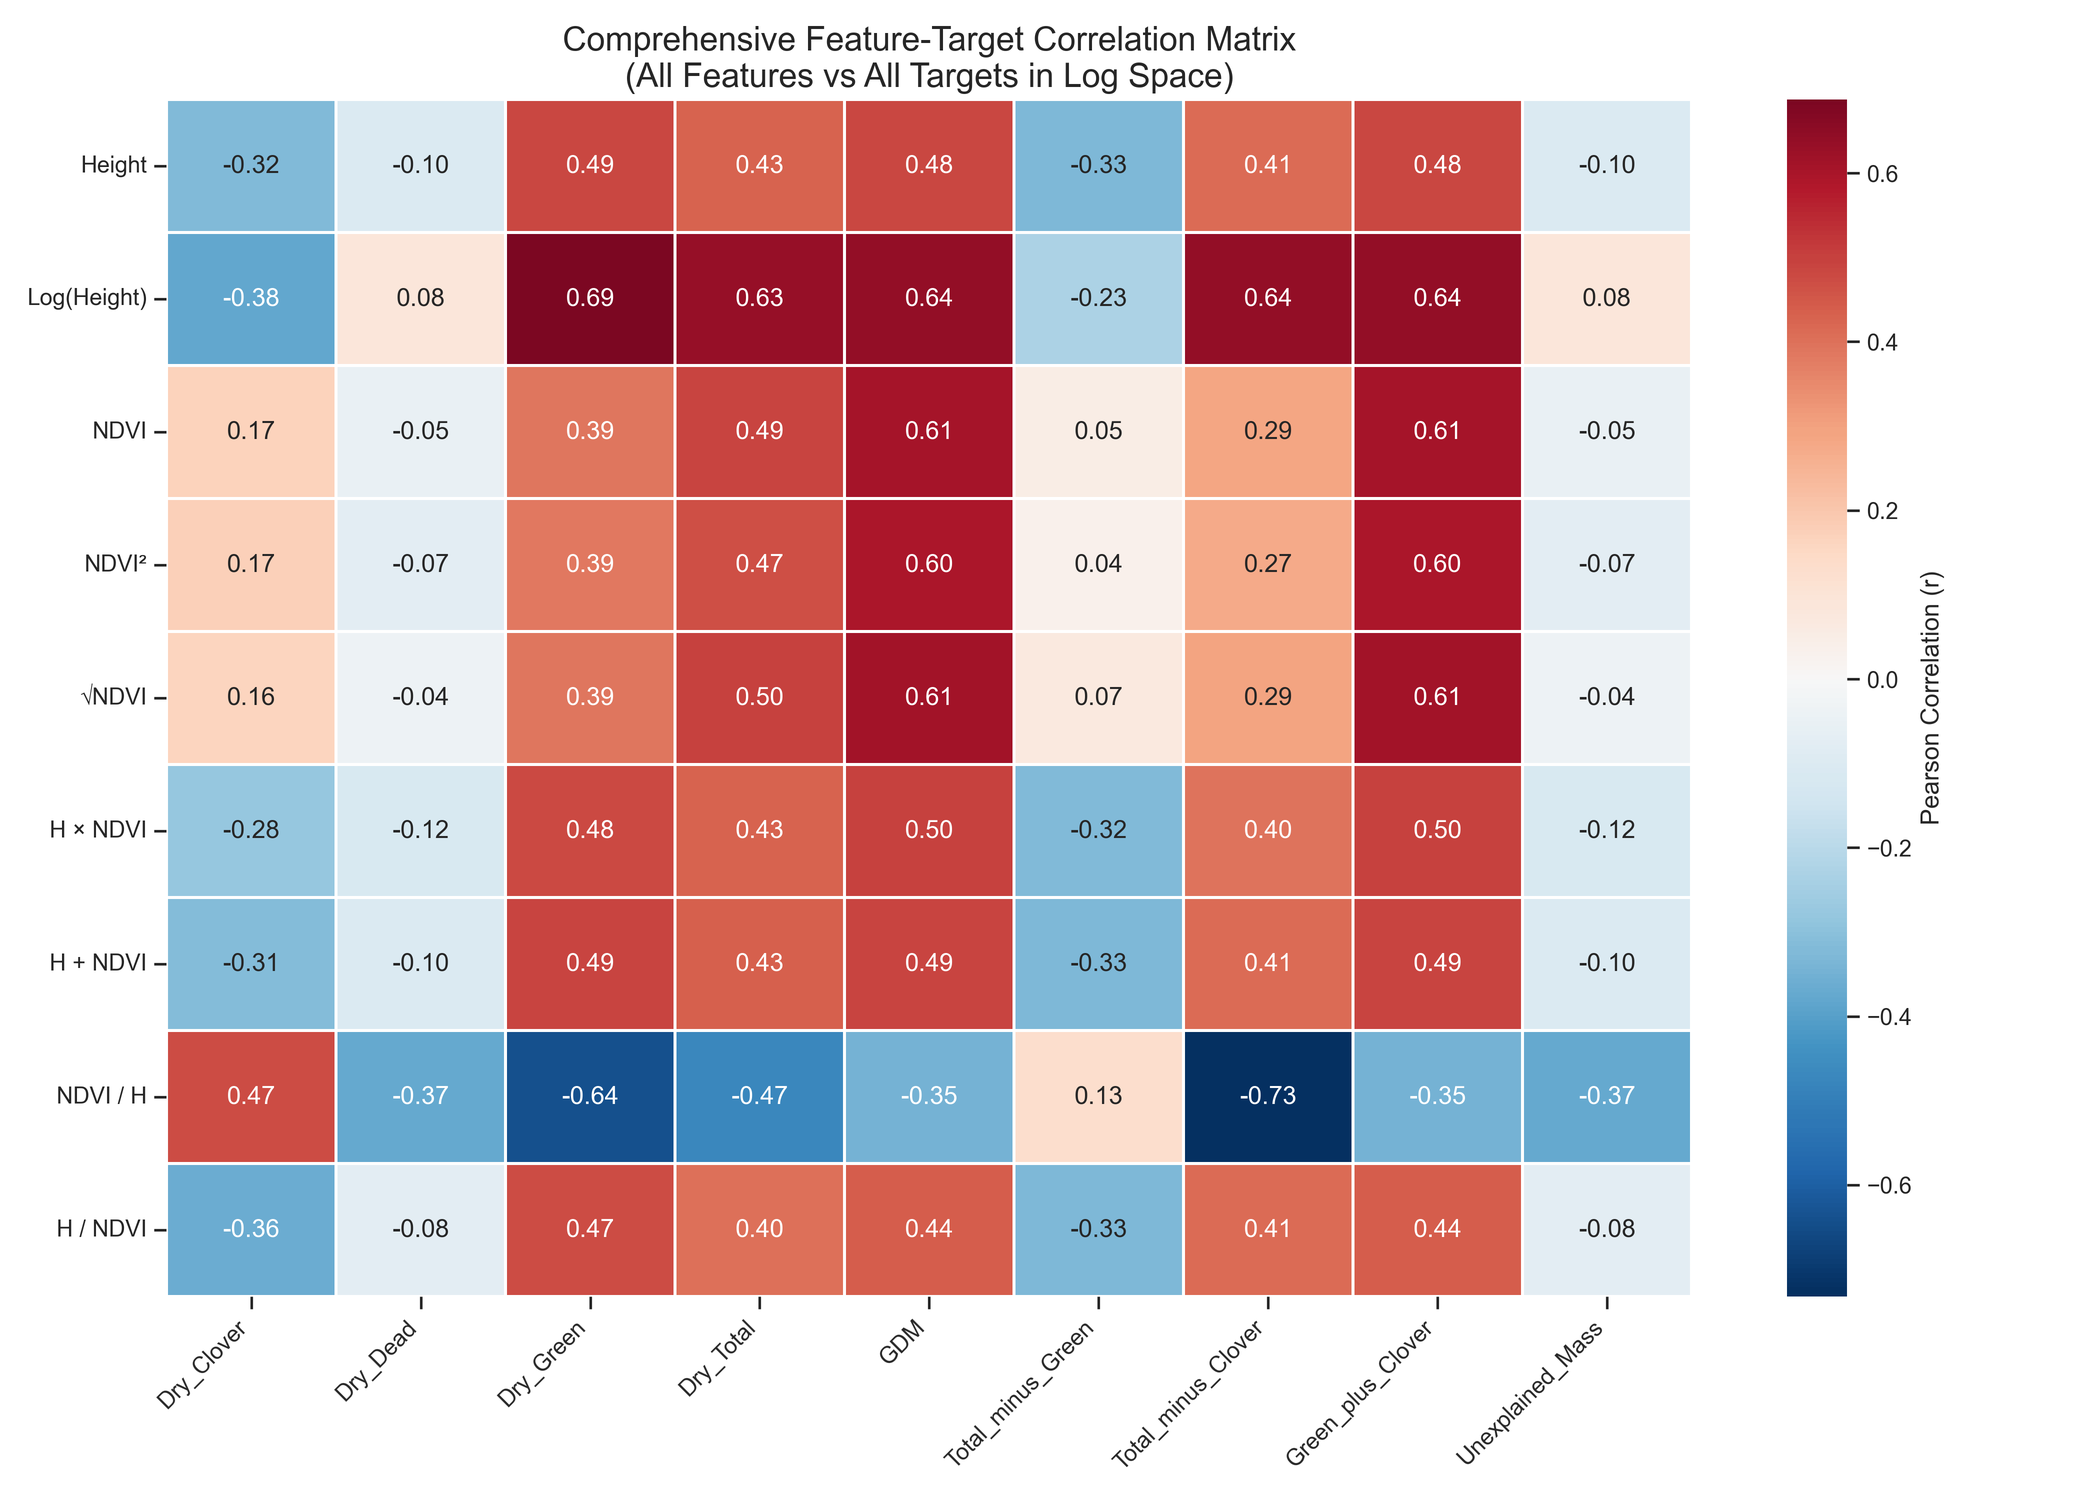
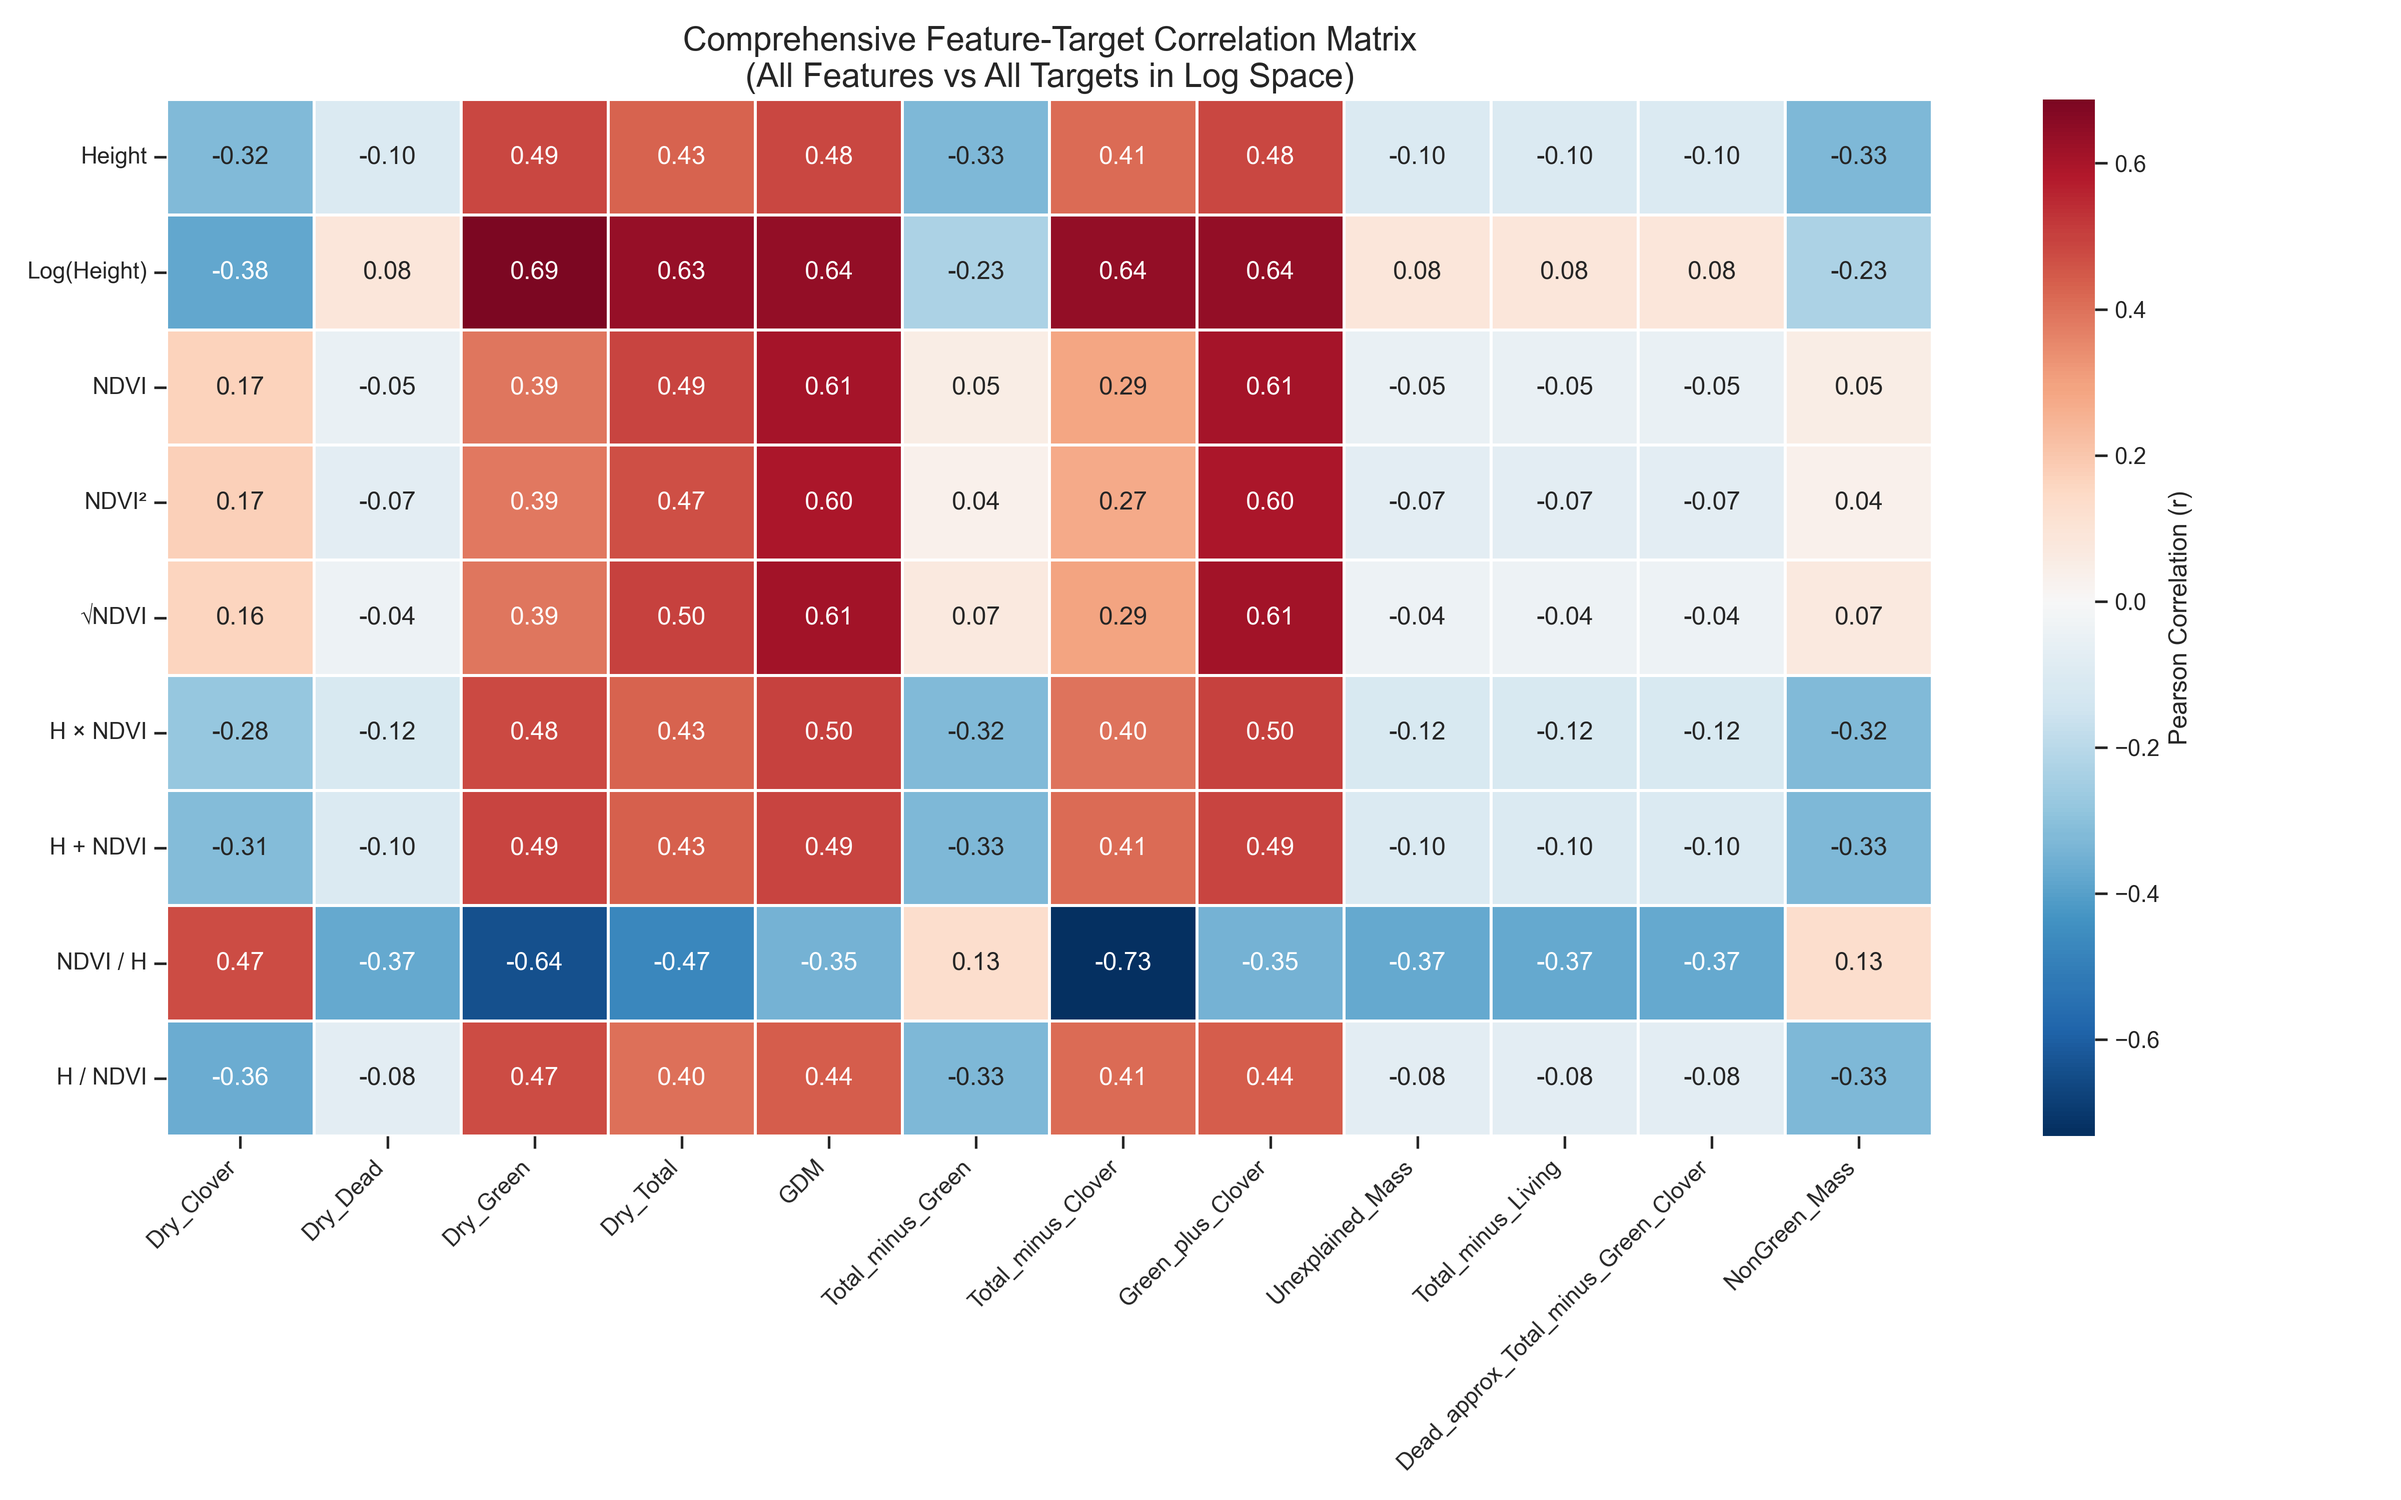
eda enhanced for dead

diff --git a/src/eda.py b/src/eda.py
@@ -97,9 +97,43 @@ def process_data(filepath='train.csv'):
     wide['GDM_minus_Total'] = wide['GDM_g'] - wide['Dry_Total_g']
     wide['Ratio_GDM_Total'] = wide['GDM_g'] / (wide['Dry_Total_g'] + epsilon)
     
+    # === NEW: Dry_Dead_g PROXY FEATURES ===
+    # Composition-based (Dead matter proxies)
+    wide['Total_minus_Living'] = wide['Dry_Total_g'] - (wide['Dry_Green_g'] + wide['Dry_Clover_g'])
+    wide['Dead_approx_Total_minus_Green_Clover'] = wide['Dry_Total_g'] - wide['Green_plus_Clover']
+    wide['NonGreen_Mass'] = wide['Dry_Total_g'] - wide['Dry_Green_g']
+    
+    # Ratio features (Dead relative to other components)
+    wide['Ratio_Dead_Total'] = wide['Dry_Dead_g'] / (wide['Dry_Total_g'] + epsilon)
+    wide['Ratio_Dead_Green'] = wide['Dry_Dead_g'] / (wide['Dry_Green_g'] + epsilon)
+    wide['Ratio_Dead_Clover'] = wide['Dry_Dead_g'] / (wide['Dry_Clover_g'] + epsilon)
+    wide['Ratio_Total_Dead'] = wide['Dry_Total_g'] / (wide['Dry_Dead_g'] + epsilon)
+    wide['Ratio_Green_Dead'] = wide['Dry_Green_g'] / (wide['Dry_Dead_g'] + epsilon)
+    
+    # Interaction products
+    wide['Product_Dead_Green'] = wide['Dry_Dead_g'] * wide['Dry_Green_g']
+    wide['Product_Dead_Clover'] = wide['Dry_Dead_g'] * wide['Dry_Clover_g']
+    wide['Product_Dead_Total'] = wide['Dry_Dead_g'] * wide['Dry_Total_g']
+    
+    # Transforms of Dead
+    wide['Sqrt_Dead'] = np.sqrt(wide['Dry_Dead_g'].clip(lower=0))
+    wide['Square_Dead'] = wide['Dry_Dead_g'] ** 2
+    wide['Log_Dead'] = np.log1p(wide['Dry_Dead_g'].clip(lower=0))
+    
+    # Dead with NDVI/Height interactions
+    wide['Dead_times_NDVI'] = wide['Dry_Dead_g'] * wide['Pre_GSHH_NDVI']
+    wide['Dead_times_Height'] = wide['Dry_Dead_g'] * wide['Height_Ave_cm']
+    wide['Dead_div_NDVI'] = wide['Dry_Dead_g'] / (wide['Pre_GSHH_NDVI'] + epsilon)
+    wide['Dead_div_Height'] = wide['Dry_Dead_g'] / (wide['Height_Ave_cm'] + epsilon)
+    
+    # Complex proxies
+    wide['Living_to_Dead_Ratio'] = wide['Green_plus_Clover'] / (wide['Dry_Dead_g'] + epsilon)
+    wide['Dead_fraction_of_NonGreen'] = wide['Dry_Dead_g'] / (wide['NonGreen_Mass'] + epsilon)
+    
     # Log Transforms for ALL targets (original + engineered)
     all_target_cols = target_cols + [
-        'Total_minus_Green', 'Total_minus_Clover', 'Green_plus_Clover', 'Unexplained_Mass'
+        'Total_minus_Green', 'Total_minus_Clover', 'Green_plus_Clover', 'Unexplained_Mass',
+        'Total_minus_Living', 'Dead_approx_Total_minus_Green_Clover', 'NonGreen_Mass'
     ]
     
     for t in all_target_cols:
@@ -289,7 +323,8 @@ def viz_interaction_correlations(df, target_cols):
     # Include engineered targets alongside original
     extended_targets = target_cols + [
         'Total_minus_Green', 'Total_minus_Clover', 
-        'Green_plus_Clover', 'Unexplained_Mass'
+        'Green_plus_Clover', 'Unexplained_Mass',
+        'Total_minus_Living', 'Dead_approx_Total_minus_Green_Clover', 'NonGreen_Mass'
     ]
     
     log_targets = [f'Log_{t}' for t in extended_targets if f'Log_{t}' in df.columns]
@@ -314,7 +349,7 @@ def viz_interaction_correlations(df, target_cols):
     }
     target_corr = target_corr.rename(index=feature_map)
     
-    plt.figure(figsize=(14, 10))
+    plt.figure(figsize=(16, 10))
     sns.heatmap(
         target_corr,
         annot=True,
@@ -344,7 +379,7 @@ def viz_dry_dead_deep_dive(df):
     # Target of interest
     focus_target = 'Dry_Dead_g'
     
-    # All predictive features (base + transforms + engineered targets)
+    # All predictive features (base + transforms + engineered targets + Dead proxies)
     all_features = [
         'Height_Ave_cm', 'Height_Log',
         'Pre_GSHH_NDVI', 'NDVI_Squared', 'NDVI_Sqrt',
@@ -356,7 +391,15 @@ def viz_dry_dead_deep_dive(df):
         'Ratio_Green_Clover', 'Ratio_Clover_Total', 'Ratio_Green_Total',
         'Product_Green_Clover', 'Product_Total_Green',
         'Sqrt_Total', 'Sqrt_Green', 'Square_Green',
-        'GDM_minus_Total', 'Ratio_GDM_Total'
+        'GDM_minus_Total', 'Ratio_GDM_Total',
+        # NEW: Dead-specific proxy features
+        'Total_minus_Living', 'Dead_approx_Total_minus_Green_Clover', 'NonGreen_Mass',
+        'Ratio_Dead_Total', 'Ratio_Dead_Green', 'Ratio_Dead_Clover',
+        'Ratio_Total_Dead', 'Ratio_Green_Dead',
+        'Product_Dead_Green', 'Product_Dead_Clover', 'Product_Dead_Total',
+        'Sqrt_Dead', 'Square_Dead', 'Log_Dead',
+        'Dead_times_NDVI', 'Dead_times_Height', 'Dead_div_NDVI', 'Dead_div_Height',
+        'Living_to_Dead_Ratio', 'Dead_fraction_of_NonGreen'
     ]
     
     # Calculate correlations
@@ -413,11 +456,25 @@ def viz_dry_dead_deep_dive(df):
         'Transforms': ['Height_Log', 'NDVI_Squared', 'NDVI_Sqrt'],
         'Interactions': ['Interaction_Mul', 'Interaction_Add', 
                         'Interaction_Ratio_NDVI_H', 'Interaction_Ratio_H_NDVI'],
-        'Target Engineering': [f for f in all_features if f not in 
+        'Dead Proxies': ['Total_minus_Living', 'Dead_approx_Total_minus_Green_Clover', 'NonGreen_Mass',
+                        'Ratio_Dead_Total', 'Ratio_Dead_Green', 'Ratio_Dead_Clover',
+                        'Ratio_Total_Dead', 'Ratio_Green_Dead',
+                        'Product_Dead_Green', 'Product_Dead_Clover', 'Product_Dead_Total',
+                        'Sqrt_Dead', 'Square_Dead', 'Log_Dead',
+                        'Dead_times_NDVI', 'Dead_times_Height', 'Dead_div_NDVI', 'Dead_div_Height',
+                        'Living_to_Dead_Ratio', 'Dead_fraction_of_NonGreen'],
+        'Other Engineering': [f for f in all_features if f not in 
                               ['Height_Ave_cm', 'Pre_GSHH_NDVI', 'Height_Log', 
                                'NDVI_Squared', 'NDVI_Sqrt', 'Interaction_Mul', 
                                'Interaction_Add', 'Interaction_Ratio_NDVI_H', 
-                               'Interaction_Ratio_H_NDVI']]
+                               'Interaction_Ratio_H_NDVI',
+                               'Total_minus_Living', 'Dead_approx_Total_minus_Green_Clover', 'NonGreen_Mass',
+                               'Ratio_Dead_Total', 'Ratio_Dead_Green', 'Ratio_Dead_Clover',
+                               'Ratio_Total_Dead', 'Ratio_Green_Dead',
+                               'Product_Dead_Green', 'Product_Dead_Clover', 'Product_Dead_Total',
+                               'Sqrt_Dead', 'Square_Dead', 'Log_Dead',
+                               'Dead_times_NDVI', 'Dead_times_Height', 'Dead_div_NDVI', 'Dead_div_Height',
+                               'Living_to_Dead_Ratio', 'Dead_fraction_of_NonGreen']]
     }
     
     cat_scores = {}
@@ -425,7 +482,8 @@ def viz_dry_dead_deep_dive(df):
         scores = [abs(correlations.get(f, 0)) for f in feats if f in correlations]
         cat_scores[cat] = np.mean(scores) if scores else 0
     
-    axes[4].bar(cat_scores.keys(), cat_scores.values(), color=['#3498db', '#e74c3c', '#2ecc71', '#f39c12'])
+    axes[4].bar(cat_scores.keys(), cat_scores.values(), 
+               color=['#3498db', '#e74c3c', '#2ecc71', '#9b59b6', '#f39c12'])
     axes[4].set_ylabel('Mean |Correlation|')
     axes[4].set_title('Feature Category Performance', fontsize=12)
     axes[4].tick_params(axis='x', rotation=45)
@@ -478,11 +536,12 @@ def viz_comprehensive_target_heatmap(df):
         'Interaction_Ratio_NDVI_H', 'Interaction_Ratio_H_NDVI'
     ]
     
-    # Original + engineered targets
+    # Original + engineered targets (including Dead proxies)
     all_targets = [
         'Dry_Clover_g', 'Dry_Dead_g', 'Dry_Green_g', 'Dry_Total_g', 'GDM_g',
         'Total_minus_Green', 'Total_minus_Clover', 
-        'Green_plus_Clover', 'Unexplained_Mass'
+        'Green_plus_Clover', 'Unexplained_Mass',
+        'Total_minus_Living', 'Dead_approx_Total_minus_Green_Clover', 'NonGreen_Mass'
     ]
     
     # Build correlation matrix
@@ -522,7 +581,7 @@ def viz_comprehensive_target_heatmap(df):
     
     heatmap_df = heatmap_df.rename(index=feature_labels)
     
-    plt.figure(figsize=(14, 10))
+    plt.figure(figsize=(16, 10))
     sns.heatmap(
         heatmap_df,
         annot=True,
